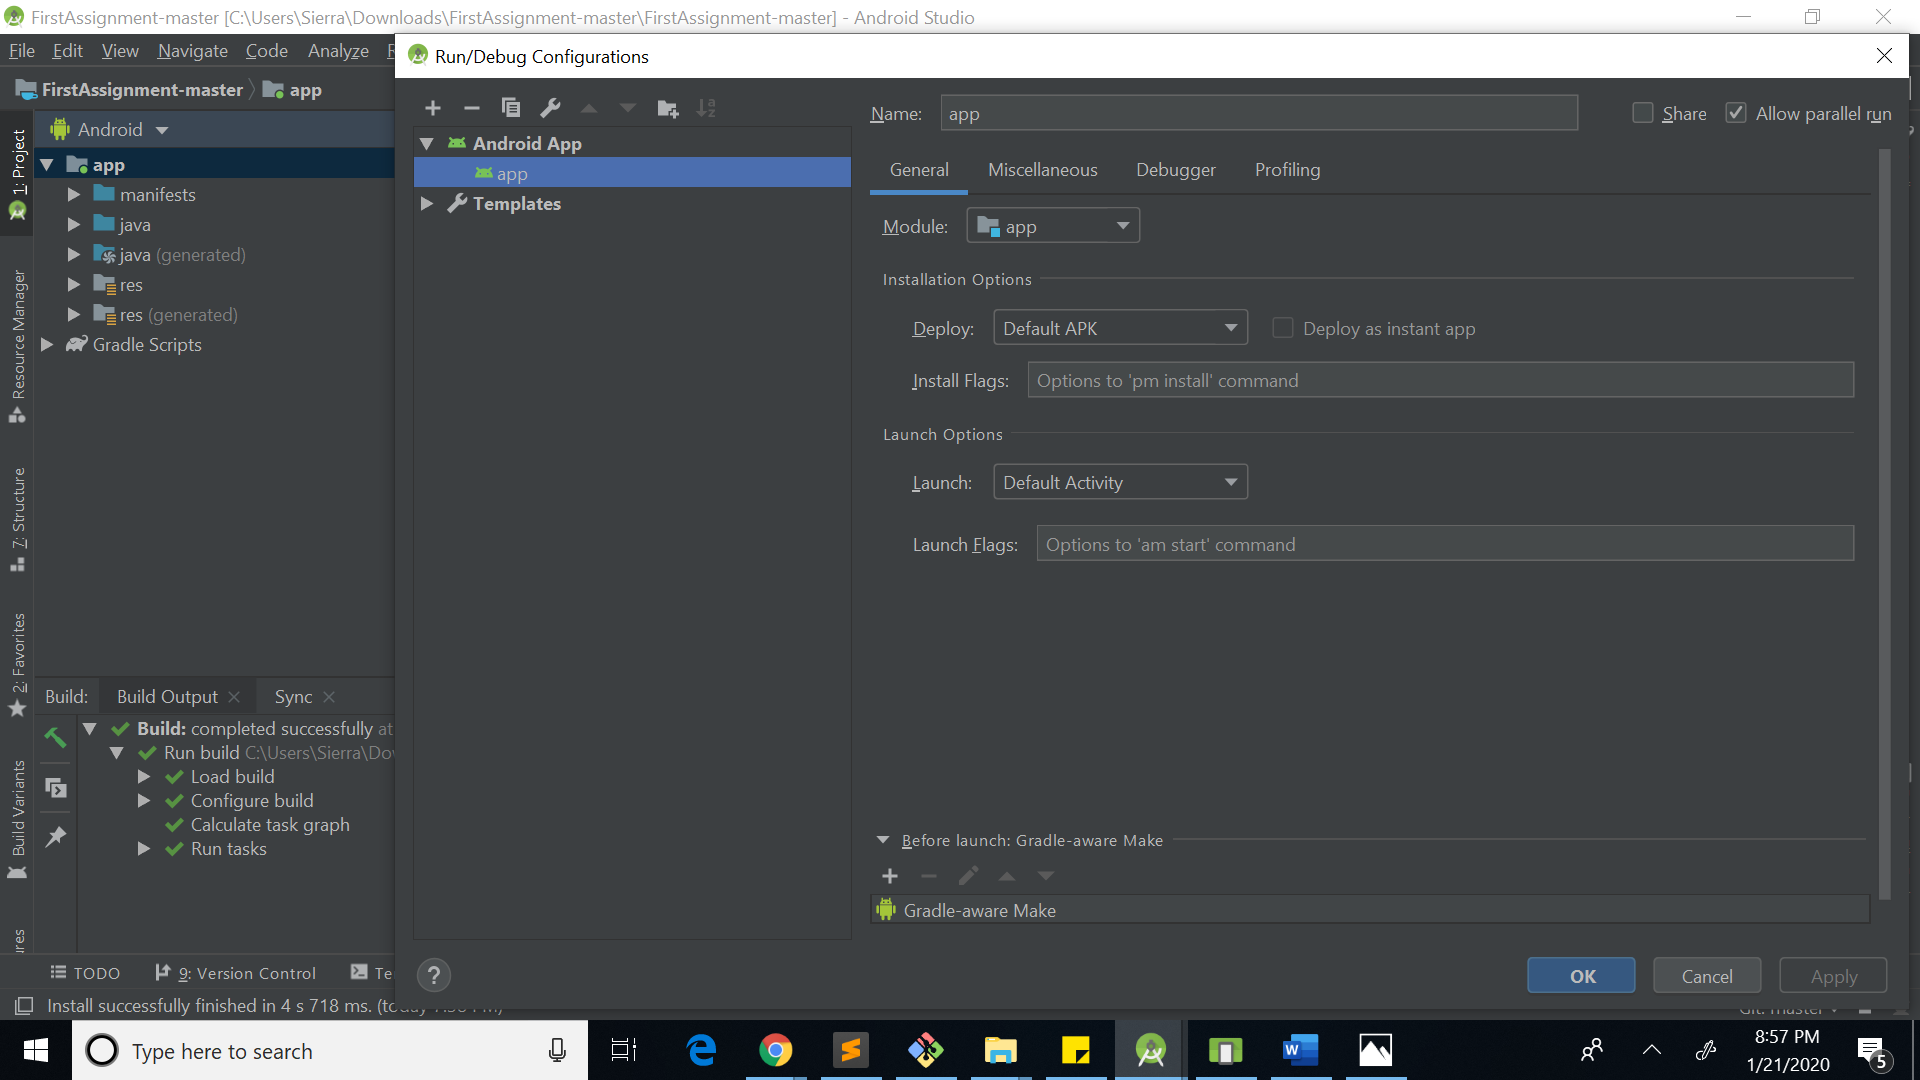
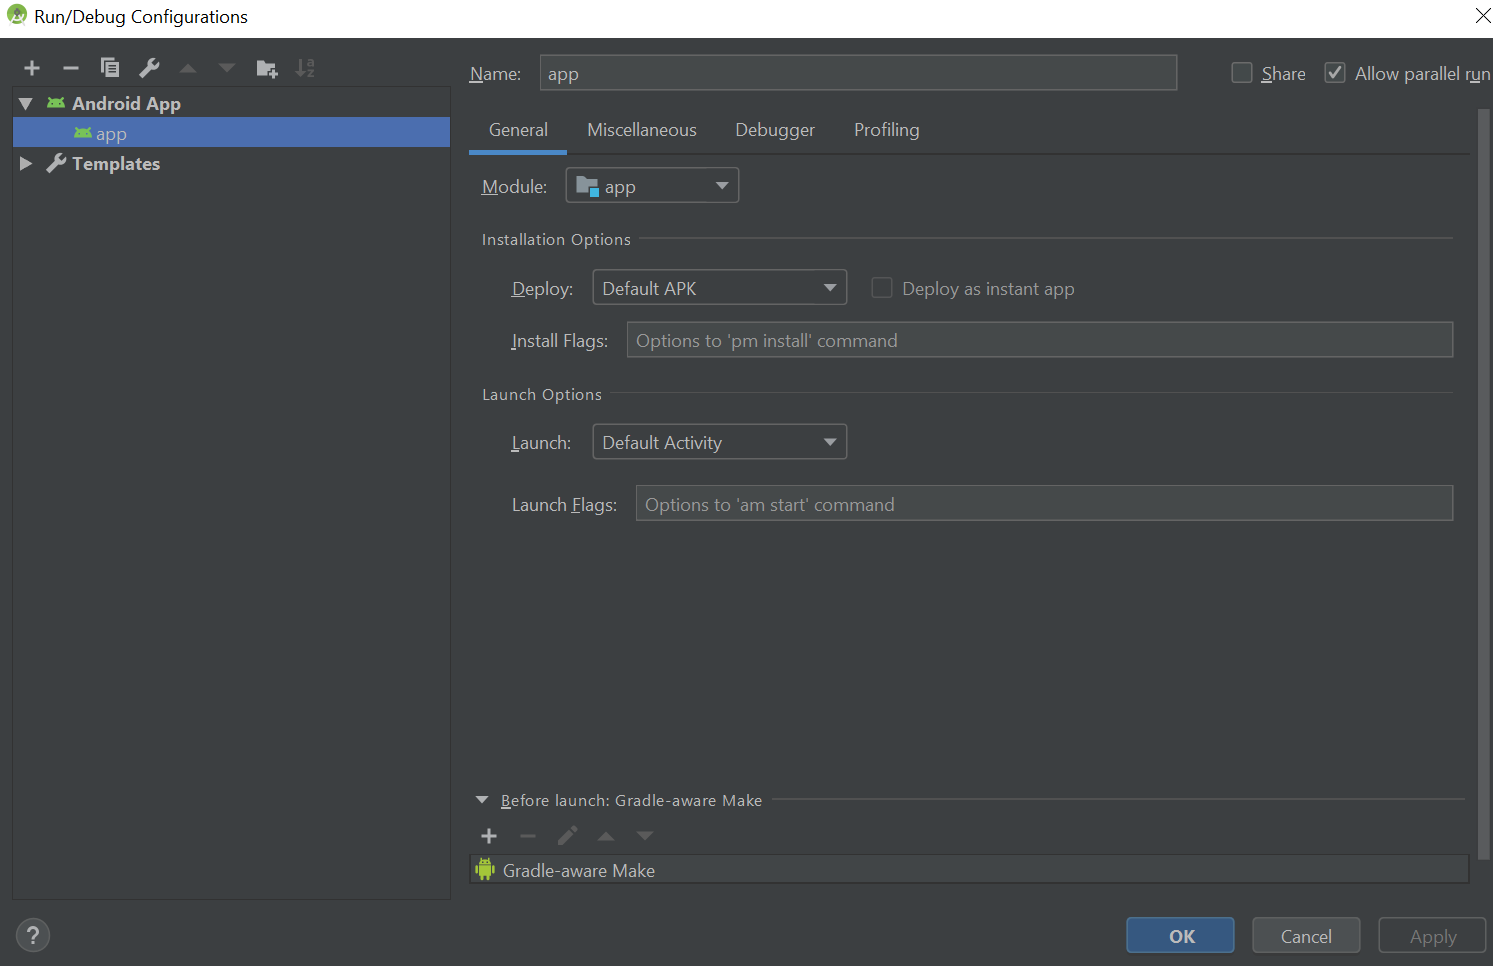
updated README with images and added new image

diff --git a/README.md b/README.md
@@ -9,5 +9,18 @@ https://developer.android.com/studio
 
 Open an existing project with the `FirstAssignment-master` folder.
 
+If the automatic build fails, it might be because you are missing Android SDK 26 and 26 Build-Tools, follow the prompted solutions in Android Studio and get those packages installed.
+
+#### Virtual Device
+Once is built, you will need to create a new virtual device.
+
+![device OVD](device_AVG.png)
+
+Be sure to create a new Anroid Emulated Device running Oreo 8.1!
+
+#### Run
+Create a new configuration using the following
+![build 1](build1.png)
+
 ### AWS
 
